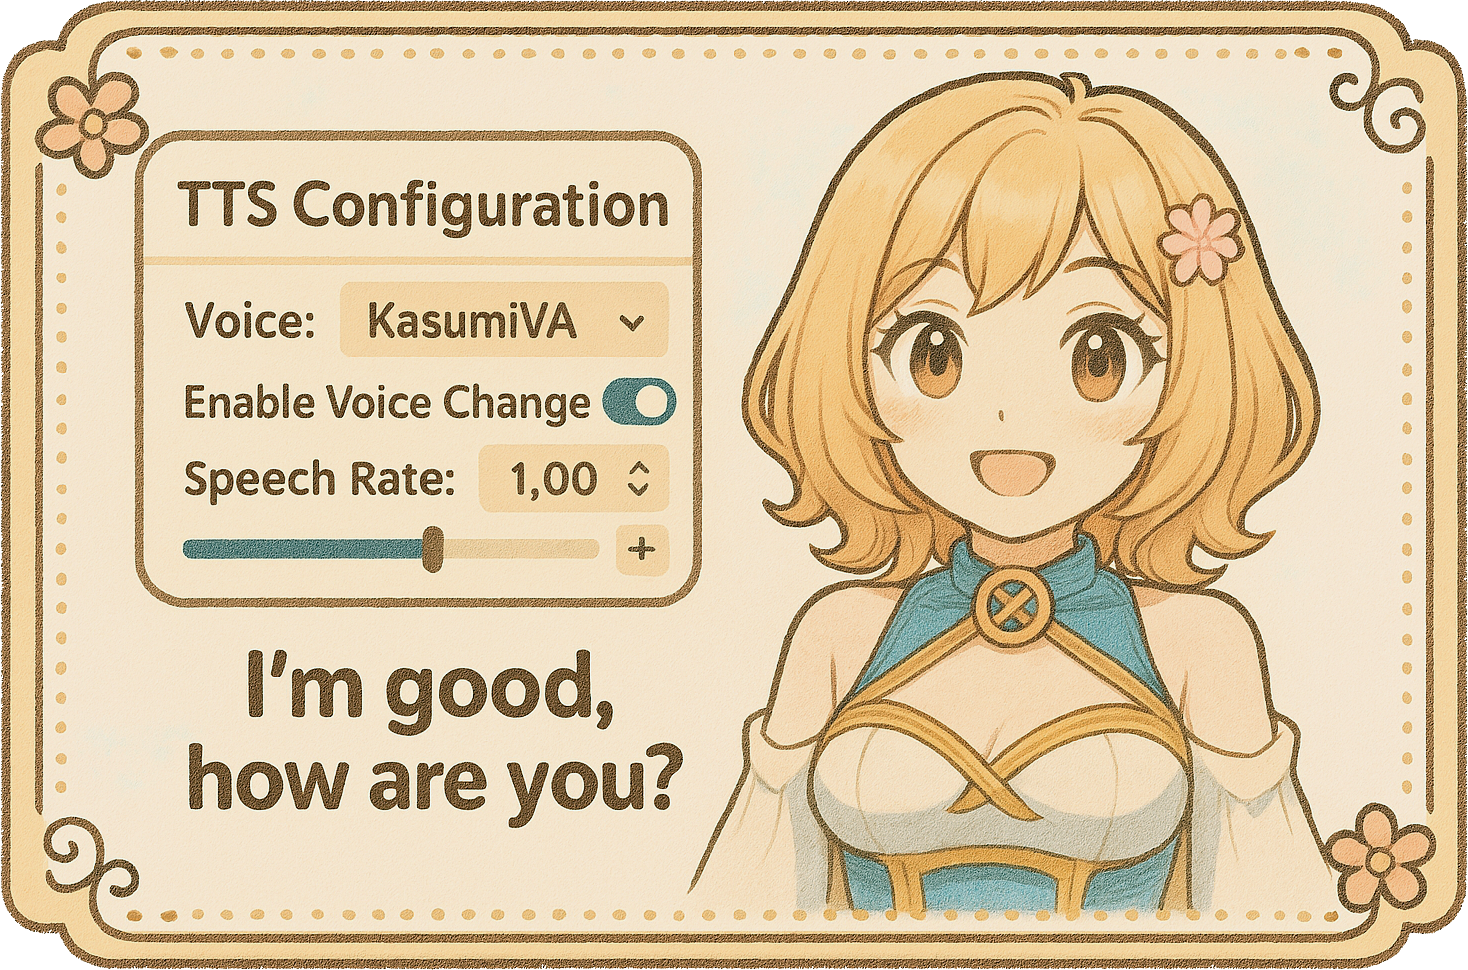
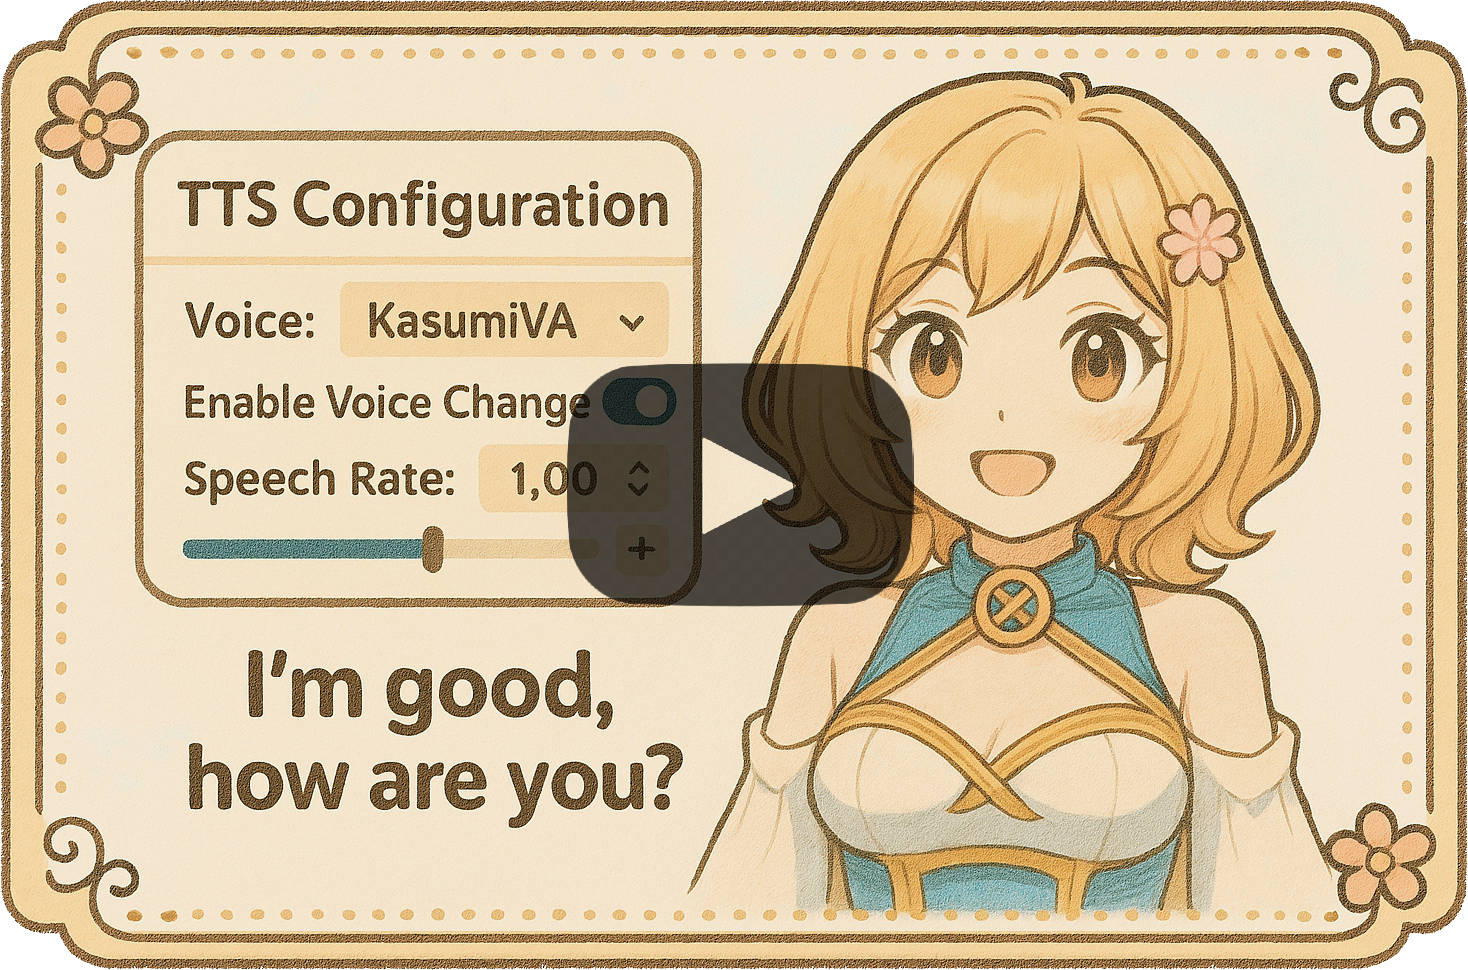
Update demo video link and thumbnail in README.md

Changed region(s): [[0.3678, 0.3711, 0.6437, 0.6495]]

diff --git a/README.md b/README.md
@@ -19,17 +19,9 @@ An AI-powered interactive avatar engine using Live2D, Large Language Models (LLM
 
 <h2>💖 See it in Action! 💖</h2>
 <p>Watch Persona Engine work its magic:</p>
-<!-- TODO: Replace with actual URL and Thumbnail -->
-<a href="YOUR_DEMO_VIDEO_URL_HERE" target="_blank">
-  <img src="URL_TO_YOUR_VIDEO_THUMBNAIL_HERE" alt="Persona Engine Demo Video" width="600">
-  <!-- Suggestion: Make this thumbnail look like a video player with a play button -->
+<a href="https://www.youtube.com/watch?v=4V2DgI7OtHE" target="_blank">
+  <img src="assets/demo_1.png" alt="Persona Engine Demo Video" width="600">
 </a>
-<br/>
-<img
-  src="assets/demo_1.png"
-  alt="Persona Engine Showcase"
-  width="500"
->
 </div>
 
 
